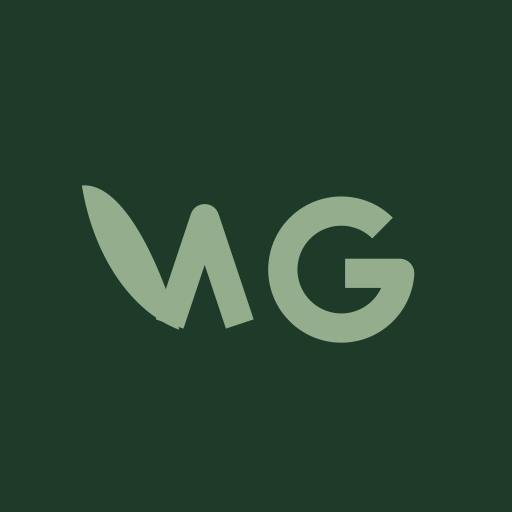
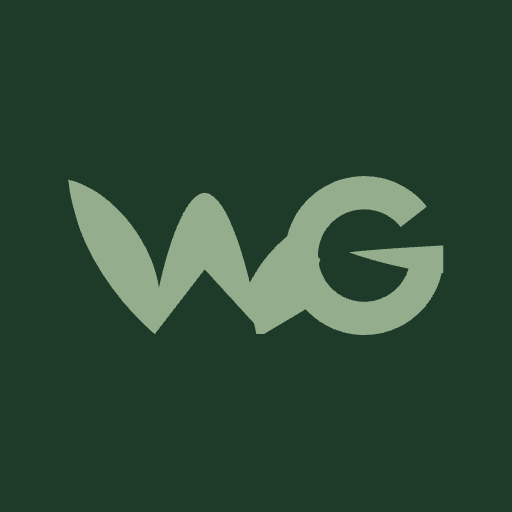
West Garden: traced WG mark, door interlocks, shower wall, throw, niche plinth
- WG mark re-traced from the developer's plan board (leaf W, arched middle,
  G with leaf crossbar); header, loader, start screen and app icons
- Movers whose fully-open leaves/drawers would intersect are interlocked:
  opening one closes the other (same-line hinges, kitchen corner drawers,
  fridge vs oven column); west upper corner door hinged away from the corner
- Shower side wall now runs to the glass line (no gap into the WC zone)
- Sofa throw is one continuous drape over the seat edge
- ИМ-16 lit niche sits on a veneer plinth instead of a dark gap

Changed region(s): [[0.125, 0.3438, 0.875, 0.6875], [0.5312, 0.4375, 0.5625, 0.5], [0.5625, 0.4062, 0.5938, 0.4375]]

diff --git a/index.html b/index.html
@@ -42,7 +42,7 @@
   /* top bar */
   #brand { position: fixed; top: calc(16px + env(safe-area-inset-top, 0px)); left: calc(16px + env(safe-area-inset-left, 0px)); padding: 10px 14px; z-index: 5; pointer-events: none; }
   #brand { display: flex; align-items: center; gap: 12px; padding: 10px 16px 10px 14px; }
-  #brand .wgm { width: 46px; height: 22px; color: var(--sage); flex: none; }
+  #brand .wgm { width: 52px; height: 22px; color: var(--sage); flex: none; }
   #brand h1 { font-family: var(--mark); font-weight: 600; font-size: 14px; margin: 0; letter-spacing: 0.16em; text-transform: uppercase; }
   #brand .room { font-family: var(--head); font-size: 12px; color: var(--ink-2); margin-top: 3px; letter-spacing: 0.08em; text-transform: uppercase; }
   #brand .room b { font-weight: 400; color: var(--sage-2); }
@@ -111,7 +111,7 @@
   .overlay { position: fixed; inset: 0; z-index: 10; display: grid; place-items: center; background: linear-gradient(180deg, rgba(30,58,40,.78), rgba(18,38,25,.9)); backdrop-filter: blur(6px); -webkit-backdrop-filter: blur(6px); }
   #load.overlay { background: var(--wg); }
   .card { width: min(540px, calc(100vw - 32px)); padding: 30px 30px 26px; }
-  .card .wgm { display: block; width: 92px; height: 44px; color: var(--sage); margin: 0 0 22px; }
+  .card .wgm { display: block; width: 104px; height: 44px; color: var(--sage); margin: 0 0 22px; }
   .card .kicker { font-family: var(--mark); font-weight: 600; font-size: 13px; letter-spacing: .2em; text-transform: uppercase; color: var(--sage-2); margin: 0 0 10px; }
   .card h1 { font-family: var(--head); font-size: 42px; line-height: 1.02; margin: 0 0 12px; font-weight: 300; letter-spacing: .01em; text-transform: uppercase; }
   .card .note { font-size: 11px; color: var(--ink-2); opacity: .8; margin: 16px 0 0; }
@@ -165,7 +165,7 @@
 <body>
 <canvas id="gl" tabindex="0"></canvas>
 
-<div id="brand" class="glass"><svg class="wgm" viewBox="0 0 92 44" aria-hidden="true"><g fill="none" stroke="currentColor" stroke-linejoin="round"><path d="M24 40 L33 13 L42 40" stroke-width="7.5"/><path d="M78.6 15.4 A15 15 0 1 0 83 27 H69" stroke-width="7.5"/></g><path d="M1.5 4.5 C11 3.5 20.5 21 26.5 41.5 C14.5 37 4.5 23 1.5 4.5 Z" fill="currentColor"/></svg><div><h1>West Garden</h1><div class="room"><b>кв. 103 · 43 м²</b> · <span id="roomName">—</span></div></div></div>
+<div id="brand" class="glass"><svg class="wgm" viewBox="50 48 822 350" aria-hidden="true"><g fill="currentColor"><path d="M55 58 C120 72 200 140 238 240 C252 280 262 330 242 392 C180 340 110 250 80 165 C68 128 58 95 55 58 Z"/><path d="M250 296 C262 240 280 175 304 130 C318 104 333 88 350 86 C367 88 382 104 396 130 C420 175 438 240 452 298 L478 392 L350 252 L242 392 Z"/><path d="M440 296 C462 250 492 205 545 168 L600 230 L572 336 L478 392 L462 392 Z"/><path d="M866 200 C800 204 720 208 662 215 C720 236 800 256 866 260 Z"/></g><path d="M802.2 138.3 A136 136 0 1 0 830.3 236.2" fill="none" stroke="currentColor" stroke-width="72"/></svg><div><h1>West Garden</h1><div class="room"><b>кв. 103 · 43 м²</b> · <span id="roomName">—</span></div></div></div>
 
 <div id="bar">
   <div class="seg glass" id="modeSeg"><button data-m="walk" class="on">Прогулка</button><button data-m="orbit">Обзор</button></div>
@@ -191,7 +191,7 @@
 
 <div id="load" class="overlay">
   <div class="card glass">
-    <svg class="wgm" viewBox="0 0 92 44" aria-hidden="true"><g fill="none" stroke="currentColor" stroke-linejoin="round"><path d="M24 40 L33 13 L42 40" stroke-width="7.5"/><path d="M78.6 15.4 A15 15 0 1 0 83 27 H69" stroke-width="7.5"/></g><path d="M1.5 4.5 C11 3.5 20.5 21 26.5 41.5 C14.5 37 4.5 23 1.5 4.5 Z" fill="currentColor"/></svg>
+    <svg class="wgm" viewBox="50 48 822 350" aria-hidden="true"><g fill="currentColor"><path d="M55 58 C120 72 200 140 238 240 C252 280 262 330 242 392 C180 340 110 250 80 165 C68 128 58 95 55 58 Z"/><path d="M250 296 C262 240 280 175 304 130 C318 104 333 88 350 86 C367 88 382 104 396 130 C420 175 438 240 452 298 L478 392 L350 252 L242 392 Z"/><path d="M440 296 C462 250 492 205 545 168 L600 230 L572 336 L478 392 L462 392 Z"/><path d="M866 200 C800 204 720 208 662 215 C720 236 800 256 866 260 Z"/></g><path d="M802.2 138.3 A136 136 0 1 0 830.3 236.2" fill="none" stroke="currentColor" stroke-width="72"/></svg>
     <div class="kicker">West Garden</div>
     <h1>Квартира 103<br>43,33 м²</h1>
     <p>Готовлю 3D-модель по рабочим чертежам: стены, проёмы, отделка и мебель по проекту.</p>
@@ -202,7 +202,7 @@
 
 <div id="start" class="overlay hidden">
   <div class="card glass">
-    <svg class="wgm" viewBox="0 0 92 44" aria-hidden="true"><g fill="none" stroke="currentColor" stroke-linejoin="round"><path d="M24 40 L33 13 L42 40" stroke-width="7.5"/><path d="M78.6 15.4 A15 15 0 1 0 83 27 H69" stroke-width="7.5"/></g><path d="M1.5 4.5 C11 3.5 20.5 21 26.5 41.5 C14.5 37 4.5 23 1.5 4.5 Z" fill="currentColor"/></svg>
+    <svg class="wgm" viewBox="50 48 822 350" aria-hidden="true"><g fill="currentColor"><path d="M55 58 C120 72 200 140 238 240 C252 280 262 330 242 392 C180 340 110 250 80 165 C68 128 58 95 55 58 Z"/><path d="M250 296 C262 240 280 175 304 130 C318 104 333 88 350 86 C367 88 382 104 396 130 C420 175 438 240 452 298 L478 392 L350 252 L242 392 Z"/><path d="M440 296 C462 250 492 205 545 168 L600 230 L572 336 L478 392 L462 392 Z"/><path d="M866 200 C800 204 720 208 662 215 C720 236 800 256 866 260 Z"/></g><path d="M802.2 138.3 A136 136 0 1 0 830.3 236.2" fill="none" stroke="currentColor" stroke-width="72"/></svg>
     <div class="kicker">West Garden · кв. 103</div>
     <h1>Добро пожаловать</h1>
     <p>Пройдитесь по квартире, откройте двери и попробуйте другие цвета и материалы на панели «Отделка».</p>

diff --git a/js/rooms.js b/js/rooms.js
@@ -88,8 +88,20 @@ function sofa(W) {
   P.pillow(F, 0.5, 0.42, 0.15, 0.36, 0.48, 1.25, 'pillow_white', HP, -0.3);
   P.pillow(F, 0.42, 0.3, 0.12, 0.45, 0.47, 1.95, 'pillow_pattern', HP + 0.1, -0.25);
   P.pillow(F, 0.36, 0.24, 0.12, 0.5, 0.45, 1.05, 'pillow_sand', HP - 0.2, -0.2);
-  F.rbox(0.62, 0.03, 0.7, 0.015, 0.62, 0.405, 2.5, 'throw_knit', 0.15, 2);
-  F.rbox(0.03, 0.28, 0.66, 0.012, 1.02, 0.14, 2.52, 'throw_knit', 0.15, 2);
+  // knit throw: lies on the seat, rolls over the front edge and hangs down (one continuous drape)
+  drape(F, [[0.42, 0.415], [0.8, 0.418], [0.98, 0.412], [1.03, 0.395], [1.055, 0.35], [1.06, 0.25], [1.055, 0.12]], 0.022, 0.66, 2.5, 'throw_knit');
+}
+
+// Cloth drape: centre-line profile pts [[x, y]...] in the frame's x-y plane, thickness t, width w along z (centred on zc).
+function drape(F, pts, t, w, zc, mat) {
+  const off = (sgn) => pts.map(([x, y], i) => {
+    const [ax, ay] = pts[Math.max(0, i - 1)], [bx, by] = pts[Math.min(pts.length - 1, i + 1)];
+    const dx = bx - ax, dy = by - ay, l = Math.hypot(dx, dy) || 1;
+    return [x - (dy / l) * sgn * t / 2, y + (dx / l) * sgn * t / 2];
+  });
+  const a = off(1), b = off(-1).reverse(), sh = new THREE.Shape();
+  sh.moveTo(a[0][0], a[0][1]); for (const [x, y] of [...a.slice(1), ...b]) sh.lineTo(x, y); sh.closePath();
+  F.extrude(sh, w - 0.02, mat, mat4(0, 0, zc - w / 2 + 0.01), 0.008);
 }
 
 function coffeeTable(F) { // РОЛ 600: terracotta drum with waffle relief
@@ -107,7 +119,7 @@ function tvWall(W) {
   const nich0 = 0.1, nich1 = 0.5;   // lit recessed base niche
   // carcass skin & niche
   const ni = u1 - u0 - 0.04; // niche parts stop inside the 20 mm end panels (no coplanar faces)
-  T.box(ni, nich0, 0.36, (u0 + u1) / 2, 0, -0.2, 'shadowgap');
+  T.box(ni, nich0, 0.38, (u0 + u1) / 2, 0, -0.19, 'wood'); // solid veneer plinth under the lit niche (no dark gap)
   T.box(ni, nich1 - nich0, 0.02, (u0 + u1) / 2, nich0, -0.21, 'lacquer_sage');
   T.box(ni, 0.02, 0.2, (u0 + u1) / 2, nich0, -0.1, 'lacquer_sage');
   T.box(ni - 0.01, 0.008, 0.012, (u0 + u1) / 2, nich1 - 0.012, -0.02, 'led');
@@ -223,11 +235,11 @@ function kitchen(B, W) {
       }
     }
   };
-  const upperUnit = (F, u0, u1, n, mat, kinds, seed = 0) => {
+  const upperUnit = (F, u0, u1, n, mat, kinds, seed = 0, flip = false) => {
     const w = u1 - u0, c = (u0 + u1) / 2, h = up1 - up0;
     CW.carcass(F.sub(c, up0, -0.02), w, h, ud - 0.02, 'k_wood', { shelves: [0.42, 0.84] });
     const dw = w / n;
-    for (let i = 0; i < n; i++) CW.hinged(F.sub(u0 + dw * (i + 0.5), up0, 0), dw, i % 2 ? 'R' : 'L', (L) => flat(L, dw, h, mat), { angle: 1.5 });
+    for (let i = 0; i < n; i++) CW.hinged(F.sub(u0 + dw * (i + 0.5), up0, 0), dw, (i % 2 === 1) !== flip ? 'R' : 'L', (L) => flat(L, dw, h, mat), { angle: 1.5 });
     const z = -ud / 2 - 0.02;
     kinds.forEach((k, j) => CW.kitchenRow(F, u0 + 0.02, u1 - 0.02, up0 + 0.018 + j * 0.42, z, k, seed + j));
     F.box(w - 0.02, 0.008, 0.02, c, up0 - 0.01, -0.06, 'led');
@@ -274,7 +286,7 @@ function kitchen(B, W) {
   // side-run uppers stop at the face of the south uppers (z 7.02) so their corner doors can open; blind corner boxes behind
   upperUnit(W.sub(2.0, 0, 0, -HP), 5.961, 7.02, 3, 'k_wood', ['glasses', 'mugs', 'packs'], 41);
   W.box(0.3, 0.02, 0.55, 2.17, up0 - 0.0, 6.35, 'appliance');
-  upperUnit(W.sub(0.35, 0, 0, HP), -7.02, -5.961, 3, 'k_wood', ['plates', 'plates', 'jars'], 51);
+  upperUnit(W.sub(0.35, 0, 0, HP), -7.02, -5.961, 3, 'k_wood', ['plates', 'plates', 'jars'], 51, true); // corner door hinged away from the corner
   W.box(0.35, up1 - up0, 0.35, 0.175, up0, 7.195, 'k_wood'); W.box(0.35, up1 - up0, 0.35, 2.175, up0, 7.195, 'k_wood');
   upperUnit(W.sub(2.35, 0, 7.02, PI), 0.35, 2.0, 4, 'k_cream', ['jars', 'packs', 'glasses'], 61);
   P.light(W, 1.175, 1.45, 6.9, 'led', 'living', 0.12);

diff --git a/js/casework.js b/js/casework.js
@@ -275,3 +275,25 @@ export function clampHinges(wallHit) {
   }
   return log;
 }
+
+// Pairs of movers whose fully-open leaves / drawers would intersect: opening one closes the other (like a real corner).
+export function computeConflicts() {
+  const pose = (m, t) => { if (m.kind === 'hinge') m.inner.rotation.y = m.sign * t * m.max; else m.inner.position.z = t * m.max; m.inner.updateMatrixWorld(true); };
+  for (const m of MOVERS) { m.conflicts = []; pose(m, 1); }
+  const box = MOVERS.map((m) => { const b = new THREE.Box3(); for (const me of m.meshes) { me.geometry.computeBoundingBox(); b.union(me.geometry.boundingBox); } return { b, M: m.meshes[0].matrixWorld.clone(), inv: m.meshes[0].matrixWorld.clone().invert() }; });
+  const v = new THREE.Vector3();
+  for (let a = 0; a < MOVERS.length; a++) for (let c = a + 1; c < MOVERS.length; c++) {
+    const A = box[a], C = box[c];
+    let hit = false;
+    for (const [P, Q] of [[A, C], [C, A]]) {
+      for (let i = 0; i <= 6 && !hit; i++) for (let j = 0; j <= 6 && !hit; j++) for (let k = 0; k <= 1 && !hit; k++) {
+        v.set(P.b.min.x + (P.b.max.x - P.b.min.x) * i / 6, P.b.min.y + (P.b.max.y - P.b.min.y) * j / 6, P.b.min.z + (P.b.max.z - P.b.min.z) * (0.25 + 0.5 * k)).applyMatrix4(P.M).applyMatrix4(Q.inv);
+        hit = v.x > Q.b.min.x + 0.002 && v.x < Q.b.max.x - 0.002 && v.y > Q.b.min.y + 0.002 && v.y < Q.b.max.y - 0.002 && v.z > Q.b.min.z + 0.001 && v.z < Q.b.max.z - 0.001;
+      }
+      if (hit) break;
+    }
+    if (hit) { MOVERS[a].conflicts.push(MOVERS[c]); MOVERS[c].conflicts.push(MOVERS[a]); }
+  }
+  for (const m of MOVERS) pose(m, 0);
+  return MOVERS.reduce((n, m) => n + m.conflicts.length, 0) / 2;
+}

diff --git a/js/main.js b/js/main.js
@@ -5,7 +5,7 @@ import { OutputPass } from 'three/addons/postprocessing/OutputPass.js';
 import { buildMaterials, MAT } from './materials.js';
 import { buildArchitecture, wallHit } from './plan.js';
 import { buildRooms } from './rooms.js';
-import { MOVERS, clampHinges } from './casework.js';
+import { MOVERS, clampHinges, computeConflicts } from './casework.js';
 import { buildLighting } from './lighting.js';
 import { Player } from './controls.js';
 import { initUI, toast } from './ui.js';
@@ -42,6 +42,7 @@ async function boot() {
   buildRooms(scene);
   scene.updateMatrixWorld(true);
   const clamped = clampHinges(wallHit); if (clamped.length) console.info('hinges clamped:', clamped.join(' '));
+  console.info('interlocked pairs:', computeConflicts());
   setLoad(0.9, 'Свет…'); await frame();
   const lighting = buildLighting(scene, renderer);
   lighting.setMode('day');
@@ -66,7 +67,11 @@ async function boot() {
 
   const player = new Player(camera, canvas, arch.doors, (t, isMover) => (isMover ? toggleMover(t) : toggleDoor(t)));
   player.movers = MOVERS;
-  function toggleMover(m) { m.target = m.target < 0.5 ? 1 : 0; }
+  function toggleMover(m) {
+    const open = m.target < 0.5;
+    if (open) for (const c of m.conflicts || []) c.target = 0; // a neighbour that would collide closes first
+    m.target = open ? 1 : 0;
+  }
   player.teleport('entry');
 
   function toggleDoor(door) {

diff --git a/js/plan-data.js b/js/plan-data.js
@@ -27,7 +27,7 @@ export const WALLS = [
   R(4220, 6610, 7640, 8045),
   R(4395, 5216, 7608, 7640),     // shower back wall
   R(5216, 6125, 7065, 7640),     // service shafts (bathroom SE)
-  R(5216, 5430, 6829, 7065),
+  R(5216, 5430, 6565, 7065),     // shower side wall runs to the glass line (the screen needs a wall to fix to)
 ];
 
 // Windows on the north facade: opening a..b (mm along x), sill height, frame members (mm along x).
